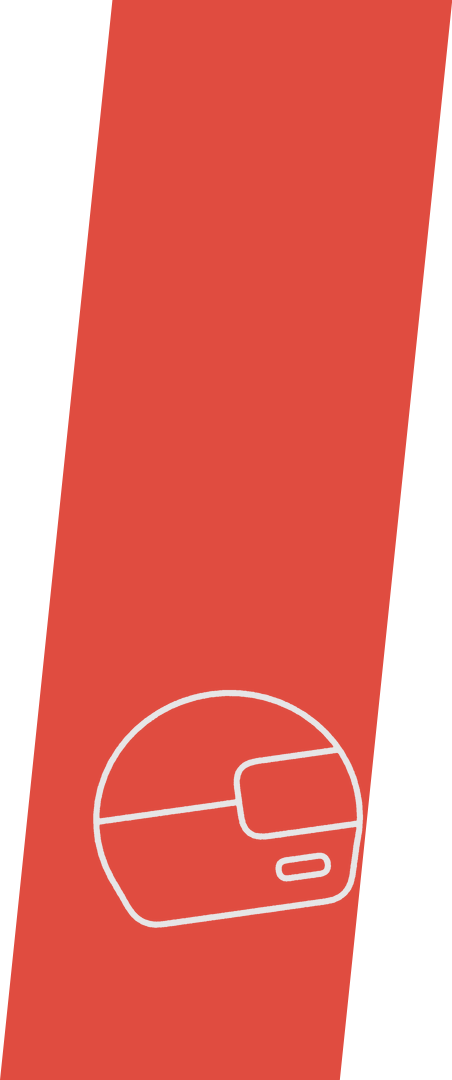
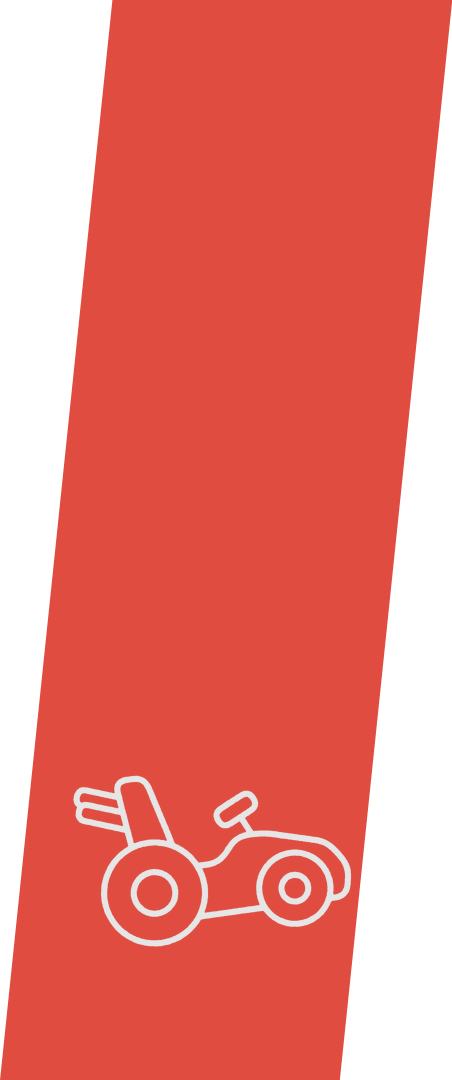
feat(theme): add 20 collection pictures and redraw kart and sonic art (#291)

Changed region(s): [[0.1549, 0.6417, 0.8053, 0.8861]]

diff --git a/tools/gen_theme_art.py b/tools/gen_theme_art.py
@@ -106,6 +106,10 @@ class Pen:
     def path(self, pts, closed=False, opaque=False):
         self.strokes.append((list(pts), closed, opaque, self.clip))
 
+    def fill(self, pts):
+        """A solid shape, for the rare mark that is not a line."""
+        self.strokes.append((list(pts), True, "ink", self.clip))
+
     @contextlib.contextmanager
     def inside(self, shape):
         """Strokes drawn in this block stop at shape's outline."""
@@ -414,6 +418,199 @@ def soundtracks(p):  # headphones
         p.rr(x * 26, -4, x * 42, 32, 5, opaque=True)
 
 
+def wishlist(p):  # bookmark
+    p.pg([(-22, -46), (22, -46), (22, 46), (0, 27), (-22, 46)], 2.5)
+    p.pg(star(0, -16, 11, 4.7), 0.8)
+
+
+def recently_added(p):  # tray and a down arrow
+    p.pg([(-8, -46), (8, -46), (8, -12), (20, -12), (0, 14), (-20, -12), (-8, -12)], 1.5)
+    p.pg([(-36, 10), (-22, 10), (-15, 22), (15, 22), (22, 10), (36, 10), (36, 40), (-36, 40)], 2.5)
+
+
+def all_time_best(p):  # crown
+    p.pg([(-25, 30), (-34, -12), (-17, 6), (0, -26), (17, 6), (34, -12), (25, 30)], 1.5)
+    for x, y in ((-34, -12), (0, -26), (34, -12)):
+        p.o(x, y, 5, opaque=True)
+    p.rr(-33, 22, 33, 38, 3, opaque=True)
+    p.o(0, 30, 3)
+
+
+def replay(p):  # looping arrow
+    ro, ri, tail, head = 40, 27, -30, 250
+    rm = (ro + ri) / 2
+    at = lambda r, a: (r * math.cos(math.radians(a)), r * math.sin(math.radians(a)))
+    tip = turn([(rm, 24)], head)[0]  # straight on from the middle of the arrowhead's base
+    p.path(arc(0, 0, ro, ro, tail, head) + [at(ro + 6.5, head), tip, at(ri - 6.5, head)]
+           + arc(0, 0, ri, ri, head, tail), True)
+
+
+def on_hold(p):  # pause symbol
+    p.o(0, 0, 40)
+    p.rr(-18, -20, -6, 20, 3.5)
+    p.rr(6, -20, 18, 20, 3.5)
+
+
+def party(p):  # dice
+    def die(cx, cy, h, rot, pips, opaque=False):
+        p.rr(cx - h, cy - h, cx + h, cy + h, 6, rot=rot, opaque=opaque)
+        for x, y in turn([(cx + dx, cy + dy) for dx, dy in pips], rot, cx, cy):
+            p.o(x, y, 2.2)
+            p.o(x, y, 0.8)
+
+    die(15, -13, 19, 12, [(-9.5, -9.5), (0, 0), (9.5, 9.5)])
+    die(-13, 13, 21, -10, [(-10.5, -10.5), (10.5, -10.5), (0, 0), (-10.5, 10.5), (10.5, 10.5)], opaque=True)
+
+
+def cards(p):  # hand of cards
+    card = [(-16, -30), (16, -30), (16, 18), (-16, 18)]
+    for a in (-22, 22):
+        p.pg(turn(card, a, 0, 38), 4, opaque=True)
+    p.pg([(x, y + 13) for x, y in card], 4, opaque=True)
+    p.pg([(0, -7), (8, 7), (0, 21), (-8, 7)], 1)
+
+
+def mystery(p):  # magnifying glass
+    p.rr(-2.6, 14.9, 43.4, 25.9, 5, rot=45)
+    p.o(-10, -10, 30, opaque=True)
+    p.path(arc(-10, -10, 20, 20, 195, 255))
+
+
+def ninja(p):  # shuriken
+    p.pg(star(0, 0, 42, 12.5, 4), 1)
+    p.o(0, 0, 5)
+    for a in (45, 225):
+        p.path(arc(0, 0, 30, 30, a - 22, a + 22))
+
+
+def mecha(p):  # robot head
+    p.rr(21, 0, 33, 11, 2)
+    p.rr(-33, 0, -21, 11, 2)
+    half = [(0, -18), (18, -12), (26, -4), (26, 16), (19, 26), (12, 36)]
+    p.pg(half + mirror(half)[:0:-1], 2, opaque=True)
+    blade = [(0, -32), (0, -20), (34, -40), (38, -52)]
+    p.pg(blade, 1, opaque=True)
+    p.pg(mirror(blade), 1, opaque=True)
+    p.pg([(-6, -41), (6, -41), (6, -12), (0, -5), (-6, -12)], 1.5, opaque=True)
+    eye = [(5, 3), (20, -2), (20, 6), (5, 9)]
+    p.pg(eye, 1)
+    p.pg(mirror(eye), 1)
+    chin = rounded([(-8, 24), (8, 24), (5, 42), (-5, 42)], 1.5)
+    p.path(chin, True, opaque=True)
+    with p.inside(chin):
+        p.l([(-12, 33), (12, 33)])
+
+
+def sci_fi(p):  # flying saucer
+    p.path([(-11, -10), (11, -10)] + arc(0, 40, 26, 7, 0, 180), True)
+    p.path(arc(0, -20, 16, 16, 180, 360), True)
+    p.o(0, -14, 38, 10.5, opaque=True)
+    for x, y in ((-21, -14), (0, -12.5), (21, -14)):
+        p.o(x, y, 2.6)
+
+
+def halloween(p):  # jack-o'-lantern
+    p.pg([(-5, -20), (-7, -38), (4, -41), (5, -20)], 2)
+    p.o(-24, 8, 19, 29)
+    p.o(24, 8, 19, 29)
+    p.o(0, 8, 27, 33, opaque=True)
+    eye = [(13, -13), (22, 2), (4, 2)]
+    p.pg(eye, 1)
+    p.pg(mirror(eye), 1)
+    p.pg([(-21, 12), (-11, 21), (0, 12), (11, 21), (21, 12), (11, 31), (0, 22), (-11, 31)], 1)
+
+
+def prototypes(p):  # traffic cone
+    cone = rounded([(-26, 34), (-7, -44), (7, -44), (26, 34)], 4, False)
+    p.path(cone)
+    with p.inside(cone):
+        for y in (-20, -8, 8, 20):
+            p.l([(-40, y), (40, y)])
+    p.rr(-37, 34, 37, 44, 3)
+
+
+def skate(p):  # skateboard
+    mid = rounded([(-46, -11), (-31, 0), (31, 0), (46, -11)], 9, False)
+
+    def side(d):
+        out = []
+        for i, (x, y) in enumerate(mid):
+            a, b = mid[max(i - 1, 0)], mid[min(i + 1, len(mid) - 1)]
+            n = math.dist(a, b)
+            out.append((x - (b[1] - a[1]) / n * d, y + (b[0] - a[0]) / n * d))
+        return out
+
+    tip = math.degrees(math.atan2(11, 15))
+    for x in (-19, 19):
+        p.l([(x - 6, -2), (x - 6, 3), (x - 3, 13), (x + 3, 13), (x + 6, 3), (x + 6, -2)], 1)
+    p.path(side(-3) + arc(46, -11, 3, 3, -tip - 90, -tip + 90)[1:-1] + side(3)[::-1]
+           + arc(-46, -11, 3, 3, tip + 90, tip + 270)[1:-1], True, opaque=True)
+    for x in (-19, 19):
+        p.o(x, 16.5, 7.5, opaque=True)
+        p.o(x, 16.5, 2.2)
+        p.o(x, 16.5, 0.8)
+
+
+def wrestling(p):  # championship belt
+    p.pg([(-50, -6), (-24, -10), (24, -10), (50, -6), (50, 6), (24, 10), (-24, 10), (-50, 6)], 3)
+    for x in (-33.5, 33.5):
+        p.rr(x - 6.5, -14, x + 6.5, 14, 3, opaque=True)
+    p.o(0, 0, 22, opaque=True)
+    p.o(0, 0, 15)
+    p.pg(star(0, 0, 9, 3.9), 0.8)
+
+
+def donkey_kong(p):  # barrel
+    rx, ry, h = 36, 60.5, 40
+    a = math.degrees(math.asin(h / ry))
+    body = arc(0, 0, rx, ry, -a, a) + arc(0, 0, rx, ry, 180 - a, 180 + a)
+    p.path(body, True)
+    with p.inside(body):
+        for r in (-12, 12):
+            p.path(arc(0, 0, r, ry, -80, 80))
+    for y in (-27, 20):
+        w0, w1 = (rx * math.sqrt(1 - (v / ry) ** 2) for v in (y, y + 7))
+        p.path([(-w0, y), (w0, y), (w1, y + 7), (-w1, y + 7)], True, opaque=True)
+
+
+def yoshi(p):  # spotted egg
+    egg = arc(0, 8, 33, 32, 0, 180) + arc(0, 8, 33, 48, 180, 360)[1:-1]
+    p.path(egg, True)
+    p.o(-3, 8, 10)
+    p.o(4, -27, 7.5)
+    with p.inside(egg):
+        p.o(31, -6, 11)
+        p.o(-26, -22, 10)
+        p.o(6, 39, 10)
+        p.o(-28, 24, 9)
+
+
+def pac_man(p):  # pac-man eating a row of dots
+    p.path(arc(-22, 0, 31, 31, 35, 325) + [(-22, 0)], True)
+    for x in (13, 27, 41, 55):
+        p.o(x, 0, 2.2)
+        p.o(x, 0, 0.8)
+
+
+def tetris(p):  # falling blocks
+    p.pg([(-35, 18), (-21, 18), (-21, 32), (7, 32), (7, 46), (-35, 46)], 0)
+    p.pg([(7, 18), (35, 18), (35, 46), (7, 46)], 0)
+    p.pg([(-21, 18), (-7, 18), (-7, 4), (21, 4), (21, 18), (7, 18), (7, 32), (-21, 32)], 0)
+    p.pg([(-21, -36), (21, -36), (21, -22), (7, -22), (7, -8), (-7, -8), (-7, -22), (-21, -22)], 0)
+
+
+def dragon_quest(p):  # slime
+    body = arc(0, 12, 41, 27, -25, 205)
+    neck = spline([(0, -44), (4, -33), (10, -23), (18, -15), (28, -8), body[0], (41, 12)])[:71]
+    p.path(neck + body[1:-1] + mirror(neck)[:0:-1], True)
+    for x in (-14, 14):
+        p.o(x, 6, 7.5)
+        p.o(x, 6, 2.2)
+        p.o(x, 6, 0.8)
+    p.path(spline([(-21, 19), (-11, 22), (0, 23), (11, 22), (21, 19)])
+           + spline([(21, 19), (12, 27), (0, 30), (-12, 27), (-21, 19)])[1:-1], True)
+
+
 def platformers_3d(p):  # cube
     p.pg([(0, -38), (35, -19), (35, 21), (0, 42), (-35, 21), (-35, -19)], 2)
     p.l([(-35, -19), (0, 1), (35, -19)], 1.5)
@@ -544,13 +741,17 @@ def jrpg_essentials(p):  # treasure chest
     p.l([(0, -2), (0, 3)], 0)
 
 
-def kart_racers(p):  # helmet
-    shell = arc(0, -2, 40, 38, 160, 380) + rounded([(37.6, 11), (33, 27), (-31, 27), (-37.6, 11)], 7, False)[1:-1]
-    p.path(shell, True)
-    with p.inside(shell):
-        p.rr(4, -18, 60, 5, 7)
-        p.l([(-60, -6.5), (4, -6.5)])
-    p.rr(13, 13, 28, 18.5, 2.7)
+def kart_racers(p):  # kart
+    p.rr(-44, -15, -24, -9.5, 2.7, rot=20)  # exhaust pipes
+    p.rr(-44, -10, -24, -4.5, 2.7, rot=20, opaque=True)
+    p.pg([(-30, -19), (-20, -19), (-13, 8), (-27, 8)], 4, opaque=True)  # seat
+    p.l([(9, -4), (15, 9)])  # steering column
+    p.pg([(-28, 13), (1, 13), (8, 5), (17, 5), (38, 11), (44, 20), (42, 30), (-28, 30)], 4, opaque=True)
+    p.rr(2, -7, 16, -1, 3, rot=-25, opaque=True)  # steering wheel
+    p.o(-22, 20, 17, opaque=True)
+    p.o(-22, 20, 7)
+    p.o(25, 25, 12, opaque=True)
+    p.o(25, 25, 4.5)
 
 
 def kirby(p):  # shooting star
@@ -758,12 +959,37 @@ def short_sessions(p):  # hourglass
     p.c([(-14, 38), (-7, 30), (0, 26), (7, 30), (14, 38)])
 
 
-def sonic(p):  # ring
-    p.o(-2, 4, 33, 40)
-    p.o(-6, 4, 22, 30)
-    p.sparkle(36, -36, 10)
-    p.sparkle(42, 34, 5.5)
-    p.sparkle(-40, -40, 5)
+def sonic(p):  # sonic's head, looking down
+    def outline(*runs):  # smooth runs joined at sharp corners
+        pts = []
+        for run in runs:
+            pts += spline(run)[1 if pts else 0:]
+        return pts[:-1]
+
+    top, mid, low = (-20.5, -35), (-46, -5.1), (-40.4, 31.6)
+    n1, n2 = (-11, -19.4), (-23.4, 3.6)
+    ear, snout, chin, nape = (46, 5.3), (22.5, 29.1), (18.8, 31.5), (-6, 23.6)
+    p.path(outline(
+        [top, (-9.3, -33.7), (-3.1, -32.6), (6.5, -29.4), (13.6, -25.7), (22.2, -19.1), (27.5, -13.1), (31.7, -5.6),
+         (34.5, 3.1)],
+        [(34.5, 3.1), (38.2, 3.7), (44.1, 4), ear],
+        [ear, (44.5, 9), (40.6, 13.3), (36.5, 17.2), (32, 21.6), (27.2, 25.8), snout],
+        [snout, (26.2, 30.2), (27.6, 32.4), (25.6, 34.4), (22, 34), chin],
+        [chin, (15, 32.3), (10.9, 32.3), (6.6, 31.4), (1.2, 28.9), (-4.4, 25), nape],
+        [nape, (-9.3, 23.2), (-14.9, 23), (-20.8, 23.7), (-28.7, 26), low],
+        [low, (-40.1, 28.7), (-38.7, 23.6), (-36.4, 17.5), (-34.5, 14), (-29.2, 7.7), n2],
+        [n2, (-27.8, 0.1), (-32.3, -2), (-38, -3.7), mid],
+        [mid, (-43.6, -8.3), (-38.8, -12.9), (-35.4, -15.4), (-30.8, -17.7), (-27.2, -18.9), (-22, -20),
+         (-16.3, -20.1), n1],
+        [n1, (-14, -26.1), top]), True)
+    eye = outline(
+        [(4.7, 1.3), (8, 0.4), (10.8, 1.2), (13.6, 4), (14.7, 6.5), (15.2, 9.2), (15.3, 19.1), (15.7, 22), (16.6, 23.6),
+         (19, 24.7)],
+        [(19, 24.7), (15.9, 24.2), (8.6, 23), (5.3, 21.2), (3.8, 19.3)],
+        [(3.8, 19.3), (6.1, 17.8), (9.2, 14.5), (10.4, 11.9), (10.8, 8.6)],
+        [(10.8, 8.6), (9.2, 8.4), (7.1, 10), (4.2, 13.6), (2, 17.3)],
+        [(2, 17.3), (0.6, 14.2), (0.3, 12.4), (0.4, 9.2), (1.2, 6), (2.6, 3.2), (4.7, 1.3)])
+    p.fill(eye)
 
 
 def star_wars(p):  # laser sword
@@ -846,6 +1072,26 @@ ART = {
     "late-night": (late_night, (58, 48, 120), 0, 1.0, (0, 0)),
     "now-playing": (now_playing, (76, 100, 236), -8, 0.95, (-12, 0)),
     "soundtracks": (soundtracks, (230, 70, 160), -8, 1.0, (-22, 0)),
+    "wishlist": (wishlist, (222, 96, 78), -8, 1.0, (-8, 0)),
+    "recently-added": (recently_added, (52, 152, 110), -6, 1.0, (-30, 0)),
+    "all-time-best": (all_time_best, (110, 62, 160), -6, 1.0, (-20, 0)),
+    "replay": (replay, (48, 130, 190), -45, 1.0, (0, 0)),
+    "on-hold": (on_hold, (112, 118, 130), -6, 1.0, (3, 0)),
+    "party": (party, (232, 92, 150), -4, 1.04, (-10, 0)),
+    "cards": (cards, (30, 110, 84), -6, 1.08, (0, 0)),
+    "mystery": (mystery, (126, 92, 70), 14, 1.0, (-6, 0)),
+    "ninja": (ninja, (50, 54, 78), 18, 1.0, (0, 0)),
+    "mecha": (mecha, (92, 112, 140), -5, 1.0, (-6, 10)),
+    "sci-fi": (sci_fi, (20, 90, 110), -8, 1.0, (-6, 0)),
+    "halloween": (halloween, (98, 50, 130), -5, 1.0, (-4, 0)),
+    "prototypes": (prototypes, (40, 92, 170), -6, 1.0, (-8, 0)),
+    "skate": (skate, (226, 140, 36), -20, 1.08, (0, 0)),
+    "wrestling": (wrestling, (160, 40, 56), -8, 0.9, (-14, 0)),
+    "donkey-kong": (donkey_kong, (134, 84, 48), 10, 1.0, (-12, 0)),
+    "yoshi": (yoshi, (90, 180, 70), 12, 1.0, (0, 0)),
+    "pac-man": (pac_man, (28, 36, 96), -6, 1.0, (-12, 0)),
+    "tetris": (tetris, (40, 170, 200), -5, 1.0, (-36, 0)),
+    "dragon-quest": (dragon_quest, (60, 130, 220), -5, 1.0, (-6, 0)),
     "3d-platformers": (platformers_3d, (240, 150, 40), -4, 1.0, (0, 0)),
     "action-classics": (action_classics, (198, 66, 58), 32, 1.0, (0, 0)),
     "arcade-brawlers": (arcade_brawlers, (206, 84, 44), -8, 1.0, (0, 0)),
@@ -860,7 +1106,7 @@ ART = {
     "handheld-greatest-hits": (handheld_greatest_hits, (120, 170, 60), -8, 1.0, (0, 0)),
     "hidden-gems": (hidden_gems, (40, 160, 150), -6, 1.0, (0, 0)),
     "jrpg-essentials": (jrpg_essentials, (176, 124, 44), -6, 1.0, (0, 0)),
-    "kart-racers": (kart_racers, (224, 76, 64), -8, 1.0, (-14, 0)),
+    "kart-racers": (kart_racers, (224, 76, 64), -8, 0.9, (-32, 0)),
     "kirby": (kirby, (238, 132, 166), 0, 1.0, (-10, 0)),
     "licensed-classics": (licensed_classics, (60, 68, 84), -6, 1.0, (-6, 0)),
     "life-sim": (life_sim, (104, 172, 84), -5, 0.92, (-34, 0)),
@@ -878,7 +1124,7 @@ ART = {
     "run-and-gun": (run_and_gun, (96, 124, 68), 12, 1.0, (0, 0)),
     "shmups": (shmups, (44, 60, 120), 16, 1.0, (0, 0)),
     "short-sessions": (short_sessions, (60, 150, 190), 8, 1.0, (0, 0)),
-    "sonic": (sonic, (36, 96, 200), 8, 1.0, (-12, 0)),
+    "sonic": (sonic, (36, 96, 200), -4, 1.0, (-20, 0)),
     "star-wars": (star_wars, (40, 44, 60), -32, 1.0, (0, 0)),
     "stealth": (stealth, (86, 110, 100), -5, 1.0, (0, 6)),
     "strategy-tactics": (strategy_tactics, (150, 102, 62), 5, 1.0, (0, 0)),
@@ -912,7 +1158,9 @@ def _ink(strokes, rng):
     r = STROKE / 2 * SS
     for pts, closed, opaque, clip in strokes:
         if opaque:
-            ImageDraw.Draw(img).polygon([(x * SS, y * SS) for x, y in pts], fill=0)
+            ImageDraw.Draw(img).polygon([(x * SS, y * SS) for x, y in pts], fill=255 if opaque == "ink" else 0)
+        if opaque == "ink":
+            continue
         layer = Image.new("L", size, 0) if clip else img
         draw = ImageDraw.Draw(layer)
         for x, y in _resample(pts, closed, 0.5):

diff --git a/src/sync_roms/data/themes/art-book-next/art/README.md b/src/sync_roms/data/themes/art-book-next/art/README.md
@@ -5,15 +5,18 @@ Collection art for the [Art Book Next](https://github.com/anthonycaccese/art-boo
 Generated by `tools/gen_theme_art.py`; don't edit by hand.
 
 <table>
-<tr><td align="center" valign="top"><img src="3d-platformers.png" width="120" alt="3D Platformers"><br><sub>3D Platformers<br><code>3d-platformers</code></sub></td><td align="center" valign="top"><img src="action-classics.png" width="120" alt="Action Classics"><br><sub>Action Classics<br><code>action-classics</code></sub></td><td align="center" valign="top"><img src="adventure.png" width="120" alt="Adventure"><br><sub>Adventure<br><code>adventure</code></sub></td><td align="center" valign="top"><img src="arcade-brawlers.png" width="120" alt="Arcade Beat &#x27;Em Ups"><br><sub>Arcade Beat &#x27;Em Ups<br><code>arcade-brawlers</code></sub></td><td align="center" valign="top"><img src="arcade-classics.png" width="120" alt="Arcade Classics"><br><sub>Arcade Classics<br><code>arcade-classics</code></sub></td><td align="center" valign="top"><img src="backlog.png" width="120" alt="Backlog"><br><sub>Backlog<br><code>backlog</code></sub></td></tr>
-<tr><td align="center" valign="top"><img src="benchmarks.png" width="120" alt="Device Benchmarks"><br><sub>Device Benchmarks<br><code>benchmarks</code></sub></td><td align="center" valign="top"><img src="best-of-16-bit.png" width="120" alt="Best of 16-Bit"><br><sub>Best of 16-Bit<br><code>best-of-16-bit</code></sub></td><td align="center" valign="top"><img src="castlevania.png" width="120" alt="Castlevania"><br><sub>Castlevania<br><code>castlevania</code></sub></td><td align="center" valign="top"><img src="co-op.png" width="120" alt="Co-op &amp; Local Multiplayer"><br><sub>Co-op &amp; Local Multiplayer<br><code>co-op</code></sub></td><td align="center" valign="top"><img src="completed.png" width="120" alt="Completed"><br><sub>Completed<br><code>completed</code></sub></td><td align="center" valign="top"><img src="decades.png" width="120" alt="Years &amp; Decades"><br><sub>Years &amp; Decades<br><code>decades</code></sub></td></tr>
-<tr><td align="center" valign="top"><img src="dungeon-crawlers.png" width="120" alt="Dungeon Crawlers &amp; Roguelikes"><br><sub>Dungeon Crawlers &amp; Roguelikes<br><code>dungeon-crawlers</code></sub></td><td align="center" valign="top"><img src="fan-translations.png" width="120" alt="Fan Translations"><br><sub>Fan Translations<br><code>fan-translations</code></sub></td><td align="center" valign="top"><img src="favorites.png" width="120" alt="Favorites"><br><sub>Favorites<br><code>favorites</code></sub></td><td align="center" valign="top"><img src="fighting.png" width="120" alt="Fighting"><br><sub>Fighting<br><code>fighting</code></sub></td><td align="center" valign="top"><img src="final-fantasy.png" width="120" alt="Final Fantasy"><br><sub>Final Fantasy<br><code>final-fantasy</code></sub></td><td align="center" valign="top"><img src="fps.png" width="120" alt="First-Person Shooters"><br><sub>First-Person Shooters<br><code>fps</code></sub></td></tr>
-<tr><td align="center" valign="top"><img src="hacks-homebrew.png" width="120" alt="ROM Hacks &amp; Homebrew"><br><sub>ROM Hacks &amp; Homebrew<br><code>hacks-homebrew</code></sub></td><td align="center" valign="top"><img src="handheld-greatest-hits.png" width="120" alt="Handheld Greatest Hits"><br><sub>Handheld Greatest Hits<br><code>handheld-greatest-hits</code></sub></td><td align="center" valign="top"><img src="hard-mode.png" width="120" alt="Hard Mode"><br><sub>Hard Mode<br><code>hard-mode</code></sub></td><td align="center" valign="top"><img src="hidden-gems.png" width="120" alt="Hidden Gems"><br><sub>Hidden Gems<br><code>hidden-gems</code></sub></td><td align="center" valign="top"><img src="holiday.png" width="120" alt="Holidays"><br><sub>Holidays<br><code>holiday</code></sub></td><td align="center" valign="top"><img src="horror.png" width="120" alt="Horror"><br><sub>Horror<br><code>horror</code></sub></td></tr>
-<tr><td align="center" valign="top"><img src="imports.png" width="120" alt="Imports"><br><sub>Imports<br><code>imports</code></sub></td><td align="center" valign="top"><img src="jrpg-essentials.png" width="120" alt="JRPG Essentials"><br><sub>JRPG Essentials<br><code>jrpg-essentials</code></sub></td><td align="center" valign="top"><img src="kart-racers.png" width="120" alt="Kart &amp; Combat Racing"><br><sub>Kart &amp; Combat Racing<br><code>kart-racers</code></sub></td><td align="center" valign="top"><img src="kids.png" width="120" alt="Kids &amp; Family"><br><sub>Kids &amp; Family<br><code>kids</code></sub></td><td align="center" valign="top"><img src="kirby.png" width="120" alt="Kirby"><br><sub>Kirby<br><code>kirby</code></sub></td><td align="center" valign="top"><img src="late-night.png" width="120" alt="Late Night &amp; Chill"><br><sub>Late Night &amp; Chill<br><code>late-night</code></sub></td></tr>
-<tr><td align="center" valign="top"><img src="licensed-classics.png" width="120" alt="Disney &amp; Licensed Classics"><br><sub>Disney &amp; Licensed Classics<br><code>licensed-classics</code></sub></td><td align="center" valign="top"><img src="life-sim.png" width="120" alt="Simulation &amp; Life Sims"><br><sub>Simulation &amp; Life Sims<br><code>life-sim</code></sub></td><td align="center" valign="top"><img src="light-gun.png" width="120" alt="Light Gun &amp; Rail Shooters"><br><sub>Light Gun &amp; Rail Shooters<br><code>light-gun</code></sub></td><td align="center" valign="top"><img src="mario.png" width="120" alt="Mario"><br><sub>Mario<br><code>mario</code></sub></td><td align="center" valign="top"><img src="mega-man.png" width="120" alt="Mega Man"><br><sub>Mega Man<br><code>mega-man</code></sub></td><td align="center" valign="top"><img src="metroid.png" width="120" alt="Metroid"><br><sub>Metroid<br><code>metroid</code></sub></td></tr>
-<tr><td align="center" valign="top"><img src="metroidvanias.png" width="120" alt="Metroidvanias"><br><sub>Metroidvanias<br><code>metroidvanias</code></sub></td><td align="center" valign="top"><img src="now-playing.png" width="120" alt="Now Playing"><br><sub>Now Playing<br><code>now-playing</code></sub></td><td align="center" valign="top"><img src="pinball.png" width="120" alt="Pinball"><br><sub>Pinball<br><code>pinball</code></sub></td><td align="center" valign="top"><img src="platformers.png" width="120" alt="Platformers"><br><sub>Platformers<br><code>platformers</code></sub></td><td align="center" valign="top"><img src="pokemon.png" width="120" alt="Pokemon"><br><sub>Pokemon<br><code>pokemon</code></sub></td><td align="center" valign="top"><img src="puzzle.png" width="120" alt="Puzzle"><br><sub>Puzzle<br><code>puzzle</code></sub></td></tr>
-<tr><td align="center" valign="top"><img src="racing.png" width="120" alt="Racing"><br><sub>Racing<br><code>racing</code></sub></td><td align="center" valign="top"><img src="resident-evil.png" width="120" alt="Resident Evil"><br><sub>Resident Evil<br><code>resident-evil</code></sub></td><td align="center" valign="top"><img src="retro-oddities.png" width="120" alt="Pre-NES &amp; Retro Oddities"><br><sub>Pre-NES &amp; Retro Oddities<br><code>retro-oddities</code></sub></td><td align="center" valign="top"><img src="rhythm.png" width="120" alt="Rhythm"><br><sub>Rhythm<br><code>rhythm</code></sub></td><td align="center" valign="top"><img src="rpg.png" width="120" alt="RPG"><br><sub>RPG<br><code>rpg</code></sub></td><td align="center" valign="top"><img src="rpg-series.png" width="120" alt="RPG Series"><br><sub>RPG Series<br><code>rpg-series</code></sub></td></tr>
-<tr><td align="center" valign="top"><img src="run-and-gun.png" width="120" alt="Run &amp; Gun"><br><sub>Run &amp; Gun<br><code>run-and-gun</code></sub></td><td align="center" valign="top"><img src="shmups.png" width="120" alt="Shmups"><br><sub>Shmups<br><code>shmups</code></sub></td><td align="center" valign="top"><img src="short-sessions.png" width="120" alt="Road Trip &amp; Short Sessions"><br><sub>Road Trip &amp; Short Sessions<br><code>short-sessions</code></sub></td><td align="center" valign="top"><img src="sonic.png" width="120" alt="Sonic the Hedgehog"><br><sub>Sonic the Hedgehog<br><code>sonic</code></sub></td><td align="center" valign="top"><img src="soundtracks.png" width="120" alt="Great Soundtracks"><br><sub>Great Soundtracks<br><code>soundtracks</code></sub></td><td align="center" valign="top"><img src="sports.png" width="120" alt="Sports"><br><sub>Sports<br><code>sports</code></sub></td></tr>
-<tr><td align="center" valign="top"><img src="star-wars.png" width="120" alt="Star Wars"><br><sub>Star Wars<br><code>star-wars</code></sub></td><td align="center" valign="top"><img src="stealth.png" width="120" alt="Stealth &amp; Espionage"><br><sub>Stealth &amp; Espionage<br><code>stealth</code></sub></td><td align="center" valign="top"><img src="strategy-tactics.png" width="120" alt="Strategy &amp; Tactics"><br><sub>Strategy &amp; Tactics<br><code>strategy-tactics</code></sub></td><td align="center" valign="top"><img src="street-fighter.png" width="120" alt="Street Fighter"><br><sub>Street Fighter<br><code>street-fighter</code></sub></td><td align="center" valign="top"><img src="surprise.png" width="120" alt="Surprise"><br><sub>Surprise<br><code>surprise</code></sub></td><td align="center" valign="top"><img src="survival-horror.png" width="120" alt="Survival Horror"><br><sub>Survival Horror<br><code>survival-horror</code></sub></td></tr>
-<tr><td align="center" valign="top"><img src="system-essentials.png" width="120" alt="System Essentials"><br><sub>System Essentials<br><code>system-essentials</code></sub></td><td align="center" valign="top"><img src="zelda.png" width="120" alt="The Legend of Zelda"><br><sub>The Legend of Zelda<br><code>zelda</code></sub></td></tr>
+<tr><td align="center" valign="top"><img src="3d-platformers.png" width="120" alt="3D Platformers"><br><sub>3D Platformers<br><code>3d-platformers</code></sub></td><td align="center" valign="top"><img src="action-classics.png" width="120" alt="Action Classics"><br><sub>Action Classics<br><code>action-classics</code></sub></td><td align="center" valign="top"><img src="adventure.png" width="120" alt="Adventure"><br><sub>Adventure<br><code>adventure</code></sub></td><td align="center" valign="top"><img src="all-time-best.png" width="120" alt="All-Time Best"><br><sub>All-Time Best<br><code>all-time-best</code></sub></td><td align="center" valign="top"><img src="arcade-brawlers.png" width="120" alt="Arcade Beat &#x27;Em Ups"><br><sub>Arcade Beat &#x27;Em Ups<br><code>arcade-brawlers</code></sub></td><td align="center" valign="top"><img src="arcade-classics.png" width="120" alt="Arcade Classics"><br><sub>Arcade Classics<br><code>arcade-classics</code></sub></td></tr>
+<tr><td align="center" valign="top"><img src="backlog.png" width="120" alt="Backlog"><br><sub>Backlog<br><code>backlog</code></sub></td><td align="center" valign="top"><img src="benchmarks.png" width="120" alt="Device Benchmarks"><br><sub>Device Benchmarks<br><code>benchmarks</code></sub></td><td align="center" valign="top"><img src="best-of-16-bit.png" width="120" alt="Best of 16-Bit"><br><sub>Best of 16-Bit<br><code>best-of-16-bit</code></sub></td><td align="center" valign="top"><img src="cards.png" width="120" alt="Card &amp; Board Games"><br><sub>Card &amp; Board Games<br><code>cards</code></sub></td><td align="center" valign="top"><img src="castlevania.png" width="120" alt="Castlevania"><br><sub>Castlevania<br><code>castlevania</code></sub></td><td align="center" valign="top"><img src="co-op.png" width="120" alt="Co-op &amp; Local Multiplayer"><br><sub>Co-op &amp; Local Multiplayer<br><code>co-op</code></sub></td></tr>
+<tr><td align="center" valign="top"><img src="completed.png" width="120" alt="Completed"><br><sub>Completed<br><code>completed</code></sub></td><td align="center" valign="top"><img src="decades.png" width="120" alt="Years &amp; Decades"><br><sub>Years &amp; Decades<br><code>decades</code></sub></td><td align="center" valign="top"><img src="donkey-kong.png" width="120" alt="Donkey Kong"><br><sub>Donkey Kong<br><code>donkey-kong</code></sub></td><td align="center" valign="top"><img src="dragon-quest.png" width="120" alt="Dragon Quest"><br><sub>Dragon Quest<br><code>dragon-quest</code></sub></td><td align="center" valign="top"><img src="dungeon-crawlers.png" width="120" alt="Dungeon Crawlers &amp; Roguelikes"><br><sub>Dungeon Crawlers &amp; Roguelikes<br><code>dungeon-crawlers</code></sub></td><td align="center" valign="top"><img src="fan-translations.png" width="120" alt="Fan Translations"><br><sub>Fan Translations<br><code>fan-translations</code></sub></td></tr>
+<tr><td align="center" valign="top"><img src="favorites.png" width="120" alt="Favorites"><br><sub>Favorites<br><code>favorites</code></sub></td><td align="center" valign="top"><img src="fighting.png" width="120" alt="Fighting"><br><sub>Fighting<br><code>fighting</code></sub></td><td align="center" valign="top"><img src="final-fantasy.png" width="120" alt="Final Fantasy"><br><sub>Final Fantasy<br><code>final-fantasy</code></sub></td><td align="center" valign="top"><img src="fps.png" width="120" alt="First-Person Shooters"><br><sub>First-Person Shooters<br><code>fps</code></sub></td><td align="center" valign="top"><img src="hacks-homebrew.png" width="120" alt="ROM Hacks &amp; Homebrew"><br><sub>ROM Hacks &amp; Homebrew<br><code>hacks-homebrew</code></sub></td><td align="center" valign="top"><img src="halloween.png" width="120" alt="Halloween"><br><sub>Halloween<br><code>halloween</code></sub></td></tr>
+<tr><td align="center" valign="top"><img src="handheld-greatest-hits.png" width="120" alt="Handheld Greatest Hits"><br><sub>Handheld Greatest Hits<br><code>handheld-greatest-hits</code></sub></td><td align="center" valign="top"><img src="hard-mode.png" width="120" alt="Hard Mode"><br><sub>Hard Mode<br><code>hard-mode</code></sub></td><td align="center" valign="top"><img src="hidden-gems.png" width="120" alt="Hidden Gems"><br><sub>Hidden Gems<br><code>hidden-gems</code></sub></td><td align="center" valign="top"><img src="holiday.png" width="120" alt="Holidays"><br><sub>Holidays<br><code>holiday</code></sub></td><td align="center" valign="top"><img src="horror.png" width="120" alt="Horror"><br><sub>Horror<br><code>horror</code></sub></td><td align="center" valign="top"><img src="imports.png" width="120" alt="Imports"><br><sub>Imports<br><code>imports</code></sub></td></tr>
+<tr><td align="center" valign="top"><img src="jrpg-essentials.png" width="120" alt="JRPG Essentials"><br><sub>JRPG Essentials<br><code>jrpg-essentials</code></sub></td><td align="center" valign="top"><img src="kart-racers.png" width="120" alt="Kart &amp; Combat Racing"><br><sub>Kart &amp; Combat Racing<br><code>kart-racers</code></sub></td><td align="center" valign="top"><img src="kids.png" width="120" alt="Kids &amp; Family"><br><sub>Kids &amp; Family<br><code>kids</code></sub></td><td align="center" valign="top"><img src="kirby.png" width="120" alt="Kirby"><br><sub>Kirby<br><code>kirby</code></sub></td><td align="center" valign="top"><img src="late-night.png" width="120" alt="Late Night &amp; Chill"><br><sub>Late Night &amp; Chill<br><code>late-night</code></sub></td><td align="center" valign="top"><img src="licensed-classics.png" width="120" alt="Disney &amp; Licensed Classics"><br><sub>Disney &amp; Licensed Classics<br><code>licensed-classics</code></sub></td></tr>
+<tr><td align="center" valign="top"><img src="life-sim.png" width="120" alt="Simulation &amp; Life Sims"><br><sub>Simulation &amp; Life Sims<br><code>life-sim</code></sub></td><td align="center" valign="top"><img src="light-gun.png" width="120" alt="Light Gun &amp; Rail Shooters"><br><sub>Light Gun &amp; Rail Shooters<br><code>light-gun</code></sub></td><td align="center" valign="top"><img src="mario.png" width="120" alt="Mario"><br><sub>Mario<br><code>mario</code></sub></td><td align="center" valign="top"><img src="mecha.png" width="120" alt="Mecha"><br><sub>Mecha<br><code>mecha</code></sub></td><td align="center" valign="top"><img src="mega-man.png" width="120" alt="Mega Man"><br><sub>Mega Man<br><code>mega-man</code></sub></td><td align="center" valign="top"><img src="metroid.png" width="120" alt="Metroid"><br><sub>Metroid<br><code>metroid</code></sub></td></tr>
+<tr><td align="center" valign="top"><img src="metroidvanias.png" width="120" alt="Metroidvanias"><br><sub>Metroidvanias<br><code>metroidvanias</code></sub></td><td align="center" valign="top"><img src="mystery.png" width="120" alt="Mystery &amp; Detective"><br><sub>Mystery &amp; Detective<br><code>mystery</code></sub></td><td align="center" valign="top"><img src="ninja.png" width="120" alt="Ninja &amp; Samurai"><br><sub>Ninja &amp; Samurai<br><code>ninja</code></sub></td><td align="center" valign="top"><img src="now-playing.png" width="120" alt="Now Playing"><br><sub>Now Playing<br><code>now-playing</code></sub></td><td align="center" valign="top"><img src="on-hold.png" width="120" alt="On Hold"><br><sub>On Hold<br><code>on-hold</code></sub></td><td align="center" valign="top"><img src="pac-man.png" width="120" alt="Pac-Man"><br><sub>Pac-Man<br><code>pac-man</code></sub></td></tr>
+<tr><td align="center" valign="top"><img src="party.png" width="120" alt="Party Games"><br><sub>Party Games<br><code>party</code></sub></td><td align="center" valign="top"><img src="pinball.png" width="120" alt="Pinball"><br><sub>Pinball<br><code>pinball</code></sub></td><td align="center" valign="top"><img src="platformers.png" width="120" alt="Platformers"><br><sub>Platformers<br><code>platformers</code></sub></td><td align="center" valign="top"><img src="pokemon.png" width="120" alt="Pokemon"><br><sub>Pokemon<br><code>pokemon</code></sub></td><td align="center" valign="top"><img src="prototypes.png" width="120" alt="Prototypes &amp; Unreleased"><br><sub>Prototypes &amp; Unreleased<br><code>prototypes</code></sub></td><td align="center" valign="top"><img src="puzzle.png" width="120" alt="Puzzle"><br><sub>Puzzle<br><code>puzzle</code></sub></td></tr>
+<tr><td align="center" valign="top"><img src="racing.png" width="120" alt="Racing"><br><sub>Racing<br><code>racing</code></sub></td><td align="center" valign="top"><img src="recently-added.png" width="120" alt="Recently Added"><br><sub>Recently Added<br><code>recently-added</code></sub></td><td align="center" valign="top"><img src="replay.png" width="120" alt="Replay"><br><sub>Replay<br><code>replay</code></sub></td><td align="center" valign="top"><img src="resident-evil.png" width="120" alt="Resident Evil"><br><sub>Resident Evil<br><code>resident-evil</code></sub></td><td align="center" valign="top"><img src="retro-oddities.png" width="120" alt="Pre-NES &amp; Retro Oddities"><br><sub>Pre-NES &amp; Retro Oddities<br><code>retro-oddities</code></sub></td><td align="center" valign="top"><img src="rhythm.png" width="120" alt="Rhythm"><br><sub>Rhythm<br><code>rhythm</code></sub></td></tr>
+<tr><td align="center" valign="top"><img src="rpg.png" width="120" alt="RPG"><br><sub>RPG<br><code>rpg</code></sub></td><td align="center" valign="top"><img src="rpg-series.png" width="120" alt="RPG Series"><br><sub>RPG Series<br><code>rpg-series</code></sub></td><td align="center" valign="top"><img src="run-and-gun.png" width="120" alt="Run &amp; Gun"><br><sub>Run &amp; Gun<br><code>run-and-gun</code></sub></td><td align="center" valign="top"><img src="sci-fi.png" width="120" alt="Sci-Fi"><br><sub>Sci-Fi<br><code>sci-fi</code></sub></td><td align="center" valign="top"><img src="shmups.png" width="120" alt="Shmups"><br><sub>Shmups<br><code>shmups</code></sub></td><td align="center" valign="top"><img src="short-sessions.png" width="120" alt="Road Trip &amp; Short Sessions"><br><sub>Road Trip &amp; Short Sessions<br><code>short-sessions</code></sub></td></tr>
+<tr><td align="center" valign="top"><img src="skate.png" width="120" alt="Skate &amp; Extreme Sports"><br><sub>Skate &amp; Extreme Sports<br><code>skate</code></sub></td><td align="center" valign="top"><img src="sonic.png" width="120" alt="Sonic the Hedgehog"><br><sub>Sonic the Hedgehog<br><code>sonic</code></sub></td><td align="center" valign="top"><img src="soundtracks.png" width="120" alt="Great Soundtracks"><br><sub>Great Soundtracks<br><code>soundtracks</code></sub></td><td align="center" valign="top"><img src="sports.png" width="120" alt="Sports"><br><sub>Sports<br><code>sports</code></sub></td><td align="center" valign="top"><img src="star-wars.png" width="120" alt="Star Wars"><br><sub>Star Wars<br><code>star-wars</code></sub></td><td align="center" valign="top"><img src="stealth.png" width="120" alt="Stealth &amp; Espionage"><br><sub>Stealth &amp; Espionage<br><code>stealth</code></sub></td></tr>
+<tr><td align="center" valign="top"><img src="strategy-tactics.png" width="120" alt="Strategy &amp; Tactics"><br><sub>Strategy &amp; Tactics<br><code>strategy-tactics</code></sub></td><td align="center" valign="top"><img src="street-fighter.png" width="120" alt="Street Fighter"><br><sub>Street Fighter<br><code>street-fighter</code></sub></td><td align="center" valign="top"><img src="surprise.png" width="120" alt="Surprise"><br><sub>Surprise<br><code>surprise</code></sub></td><td align="center" valign="top"><img src="survival-horror.png" width="120" alt="Survival Horror"><br><sub>Survival Horror<br><code>survival-horror</code></sub></td><td align="center" valign="top"><img src="system-essentials.png" width="120" alt="System Essentials"><br><sub>System Essentials<br><code>system-essentials</code></sub></td><td align="center" valign="top"><img src="tetris.png" width="120" alt="Tetris &amp; Falling Blocks"><br><sub>Tetris &amp; Falling Blocks<br><code>tetris</code></sub></td></tr>
+<tr><td align="center" valign="top"><img src="wishlist.png" width="120" alt="Wishlist"><br><sub>Wishlist<br><code>wishlist</code></sub></td><td align="center" valign="top"><img src="wrestling.png" width="120" alt="Wrestling &amp; Boxing"><br><sub>Wrestling &amp; Boxing<br><code>wrestling</code></sub></td><td align="center" valign="top"><img src="yoshi.png" width="120" alt="Yoshi"><br><sub>Yoshi<br><code>yoshi</code></sub></td><td align="center" valign="top"><img src="zelda.png" width="120" alt="The Legend of Zelda"><br><sub>The Legend of Zelda<br><code>zelda</code></sub></td></tr>
 </table>

diff --git a/CLAUDE.md b/CLAUDE.md
@@ -91,7 +91,7 @@ Lines:
 
 Size and placement:
 
-- Drawings live in a box of about -50..50 units, y down, 3.3px per unit; the stroke is about 1.8 units wide, so keep parallel lines and small details at least 5 units apart. A solid dot is two small concentric circles (radius about 2.2 and 0.8).
+- Drawings live in a box of about -50..50 units, y down, 3.3px per unit; the stroke is about 1.8 units wide, so keep parallel lines and small details at least 5 units apart. A solid dot is two small concentric circles (radius about 2.2 and 0.8). A larger solid shape, like the eye in `sonic`, is `p.fill(shape)`; keep it to one small feature of a picture.
 - The band is slanted and about 340px wide where the picture sits, and `CENTER` is right of its middle. A picture wider than about 75 units runs off the band's right edge, and that look is wanted: the theme's own pictures are cut off on the right, and about 30 of ours lose 10 to 40px there. Don't move or shrink a picture to keep it whole on the right; give a wide one 10 to 20px of cut rather than letting it just touch the edge. Use a smaller `scale` and a negative x offset in `ART` only when more than about 40px would go, and keep the left edge clear.
 
 Subject:
